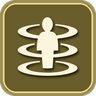
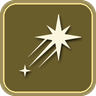
아군 포탑 사거리도 가까이 가면 표시(파랑), 상점 판매 가격·비율 표시와 아이템 마우스 올림 정보창, 되돌리기 버튼을 상점 왼쪽 아래로, 용 꼬리는 부드럽게·몸통은 확 꺾이지 않게, 점멸 아이콘 새로 그림, 인벤토리 드래그로 아이템 자리 바꾸기

Changed region(s): [[0.1562, 0.125, 0.875, 0.8125]]

diff --git a/game/client/scenes/game.py b/game/client/scenes/game.py
@@ -301,6 +301,11 @@ def draw_item(surf, iid, rect, font_size=14):
     ui.text(surf, it["name"][0], rect.center, font_size, (20, 20, 30), anchor="center", bold=True, shadow=False)
 
 
+def sell_text(item):
+    """판매 가격 글자 (롤 상점처럼 금액과 비율)."""
+    return f"판매 {round(item['cost'] * SELL_RATIO)} G ({round(SELL_RATIO * 100)}%)"
+
+
 def item_stat_text(item):
     parts = []
     for key, label, mul in STAT_LABELS:
@@ -394,6 +399,9 @@ class GameScene(Scene):
         self.shop_rects = []
         self.shop_buy_rect = None      # 상점 오른쪽 구매 버튼
         self.shop_undo_rect = None     # 상점 되돌리기 버튼
+        self.shop_tip = None           # 상점에서 마우스를 올린 아이템 정보 (마우스, 아이템 id, 가진 아이템)
+        self.inv_drag = None           # 인벤토리에서 끌고 있는 칸 번호
+        self.hud_slot_rects = []       # HUD 인벤토리 8칸 전부 (빈 칸 포함, 끌어다 놓을 자리)
         self.slam_follow = {}          # 이무기 id -> (내려찍기 대상 id, 끝나는 시각)
         self.shop_sel = None           # 상점에서 고른 아이템 (구매 버튼으로 살 것)
         self.shop_view = None          # 상점 오른쪽에 조합 트리를 보여 주는 아이템
@@ -1290,6 +1298,11 @@ class GameScene(Scene):
                 self.aiming = None
         elif e.type == pygame.MOUSEBUTTONDOWN:
             if e.button == 1:
+                if not self.aiming:                         # 인벤토리 아이템을 끌어서 자리 바꾸기
+                    hit = next((i for i, rect in self.hud_inv_rects if rect.collidepoint(e.pos)), None)
+                    if hit is not None:
+                        self.inv_drag = hit
+                        return
                 if self.aiming and self.aim_of(self.aiming) == "teleport" and MINIMAP.collidepoint(e.pos):
                     self.cast_slot(self.aiming)         # 미니맵을 눌러 먼 곳으로 시전
                     self.aiming = None
@@ -1330,6 +1343,12 @@ class GameScene(Scene):
             self.rmb_minimap = False
         elif e.type == pygame.MOUSEBUTTONUP and e.button == 1:
             self.minimap_drag = False
+            if self.inv_drag is not None:
+                src, self.inv_drag = self.inv_drag, None
+                dst = next((i for i, rect in self.hud_slot_rects if rect.collidepoint(e.pos)), None)
+                if dst is not None and dst != src:
+                    self.audio.play("ui_click")
+                    self.send_cmd(c="swap", a=src, b=dst)
         elif e.type == pygame.MOUSEMOTION and self.minimap_drag:
             self.minimap_camera(e.pos)
         elif e.type == pygame.MOUSEWHEEL:
@@ -1688,14 +1707,14 @@ class GameScene(Scene):
                 mesh = meshes["nexus"] if alive else meshes["nexus_dead"]
             r.draw(mesh, model_matrix(s["x"], 0, s["z"], rot_y=0.0), emissive=emis)
             if alive and s["k"] == "turret":
-                # 포탑 사거리: 내 챔피언이 가까이 있으면 표시
+                # 포탑 사거리: 내 챔피언이 가까이 있으면 표시 (적 포탑은 빨강, 아군 포탑은 파랑)
                 me = self.champs.get(self.my_id)
-                if me and s["tm"] != self.my_team and math.hypot(me.x - s["x"], me.z - s["z"]) < mapdata.TURRET_RANGE + 4:
+                if me and me.d and not me.d["dead"] and math.hypot(me.x - s["x"], me.z - s["z"]) < mapdata.TURRET_RANGE + 4:
                     # 서버는 "사거리 + 대상 반지름" 안이면 공격한다. 선의 안쪽 가장자리를 그 거리에 맞추고
                     # 두께는 바깥쪽으로 그려서, 선을 밟고 있어도 (선 위는 이미 사거리 밖이라) 공격받지 않게 한다.
                     inner = mapdata.TURRET_RANGE + ((self.my_data() or {}).get("stats", {}).get("radius", 0.55))
-                    r.draw_transparent(m.ring_thin, model_matrix(s["x"], 0.05, s["z"], scale=inner / (1.0 - RING_THIN)),
-                                       (1.0, 0.3, 0.25, 0.7))
+                    ring_col = (1.0, 0.3, 0.25, 0.7) if s["tm"] != self.my_team else (0.35, 0.65, 1.0, 0.55)
+                    r.draw_transparent(m.ring_thin, model_matrix(s["x"], 0.05, s["z"], scale=inner / (1.0 - RING_THIN)), ring_col)
             if alive and not st[3] and s["tm"] != self.my_team:
                 # 무적 구조물: 보호막
                 r.draw_transparent(m.orb, model_matrix(s["x"], 1.5, s["z"], scale=s["r"] + 0.7),
@@ -2348,6 +2367,8 @@ class GameScene(Scene):
                     bold=True)
         if self.shop_open:
             self.draw_shop(surf)
+            if self.shop_tip:
+                self.draw_item_tooltip(surf, *self.shop_tip)
         if self.show_score:
             self.draw_scoreboard(surf)
         if self.winner is not None:
@@ -2651,21 +2672,31 @@ class GameScene(Scene):
         ui.bar(surf, (392, 697, 356, 11), me["mp"] / max(1, me["mmp"]), (70, 120, 230))
         ui.text(surf, f"{me['mp']} / {me['mmp']}", (570, 702), 10, anchor="center", shadow=True)
 
-        # 아이템 (4칸 x 2줄, 신발도 한 칸을 차지한다)
+        # 아이템 (4칸 x 2줄, 신발도 한 칸을 차지한다). 끌어서 다른 칸에 놓으면 자리가 바뀐다
         self.hud_inv_rects = []
+        self.hud_slot_rects = []
+        if self.inv_drag is not None and self.inv_drag >= len(me["it"]):
+            self.inv_drag = None
         for i in range(INVENTORY_SLOTS):
             x = 764 + (i % INV_COLS) * 37
             y = 616 + (i // INV_COLS) * 38
             rect = pygame.Rect(x, y, 34, 34)
-            pygame.draw.rect(surf, (25, 30, 42), rect, border_radius=4)
+            self.hud_slot_rects.append((i, rect))
+            drop = self.inv_drag is not None and i != self.inv_drag and rect.collidepoint(mouse)
+            pygame.draw.rect(surf, (45, 60, 90) if drop else (25, 30, 42), rect, border_radius=4)
             if i < len(me["it"]):
                 it = gamedata.items()[me["it"][i]]
                 draw_item(surf, me["it"][i], rect.inflate(-2, -2))
                 self.hud_inv_rects.append((i, rect))
-                if rect.collidepoint(mouse):
-                    sell = round(it["cost"] * SELL_RATIO)
-                    tooltip = (it["name"], f"{item_stat_text(it)}\n판매 시 {sell} G ({int(SELL_RATIO * 100)}%)")
-            pygame.draw.rect(surf, ui.BORDER, rect, 1, border_radius=4)
+                if i == self.inv_drag:                  # 끌고 있는 아이템의 원래 칸은 어둡게
+                    dim = pygame.Surface(rect.size, pygame.SRCALPHA)
+                    dim.fill((0, 0, 0, 150))
+                    surf.blit(dim, rect.topleft)
+                if rect.collidepoint(mouse) and self.inv_drag is None:
+                    tooltip = (it["name"], f"{item_stat_text(it)}\n{sell_text(it)}")
+            pygame.draw.rect(surf, ui.HIGHLIGHT if drop else ui.BORDER, rect, 1, border_radius=4)
+        if self.inv_drag is not None:                   # 끌고 있는 아이템은 마우스를 따라온다
+            draw_item(surf, me["it"][self.inv_drag], pygame.Rect(mouse[0] - 16, mouse[1] - 16, 32, 32))
         self.gold_rect = ui.text(surf, f"{me['g']} G", (914, 706), 18, ui.GREEN_C if me.get("shop") else ui.GOLD,
                                  anchor="bottomleft", bold=True)
 
@@ -2976,6 +3007,7 @@ class GameScene(Scene):
         self.shop_rects = []
         self.shop_buy_rect = None
         self.shop_undo_rect = None
+        self.shop_tip = None
         mouse = ui.mouse_pos()
         its = gamedata.items()
         owned = list(me["it"]) if me else []
@@ -2999,6 +3031,14 @@ class GameScene(Scene):
             rect = pygame.Rect(bx.x + 8, y, bx.width - 16, 50)
             self.draw_shop_entry(surf, rect, iid, owned, gold, mouse, sel, row=True)
             y += 56
+        # 되돌리기 (롤처럼 상점 왼쪽 아래)
+        ub = pygame.Rect(bx.x + 8, bx.bottom - 54, bx.width - 16, 44)
+        uok = can and bool(me and me.get("ud"))
+        uhover = ub.collidepoint(mouse)
+        pygame.draw.rect(surf, ((70, 90, 130) if uhover else (52, 68, 102)) if uok else (40, 44, 56), ub, border_radius=6)
+        pygame.draw.rect(surf, ui.HIGHLIGHT if uok and uhover else ui.BORDER, ub, 1, border_radius=6)
+        ui.text(surf, "되돌리기", ub.center, 16, ui.TEXT if uok else ui.TEXT_DIM, anchor="center", bold=True)
+        self.shop_undo_rect = ub
 
         # 가운데: 아이템 목록 (아이콘 + 가격)
         mid = pygame.Rect(bx.right + 10, top, 408, p.bottom - top - 14)
@@ -3015,12 +3055,12 @@ class GameScene(Scene):
 
         # 오른쪽: 고른 아이템
         area = pygame.Rect(mid.right + 10, top, p.right - mid.right - 24, p.bottom - top - 14)
-        self.draw_shop_detail(surf, area, self.shop_view, sel, owned, gold, can, mouse, bool(me and me.get("ud")))
+        self.draw_shop_detail(surf, area, self.shop_view, sel, owned, gold, can, mouse)
 
-        # 마우스를 올린 아이템 이름
+        # 마우스를 올린 아이템 정보 (이름 · 가격 · 능력치 · 판매 가격)
         hov = next((iid for iid, r, _nav in self.shop_rects if r.collidepoint(mouse)), None)
-        if hov and hov != sel:
-            ui.text(surf, its[hov]["name"], (mouse[0] + 14, mouse[1] + 18), 14, ui.TEXT)
+        if hov:
+            self.shop_tip = (mouse, hov, owned)
 
     def draw_shop_entry(self, surf, rect, iid, owned, gold, mouse, sel, row=False):
         """상점의 아이템 칸 하나. row=True 면 아이콘 + 이름 + 가격 한 줄, 아니면 아이콘 + 가격."""
@@ -3054,7 +3094,7 @@ class GameScene(Scene):
             pygame.draw.circle(surf, (110, 220, 130), (ir.right - 4, ir.y + 4), 4)
         self.shop_rects.append((iid, rect, True))
 
-    def draw_shop_detail(self, surf, area, view, sel, owned, gold, can, mouse, undo=False):
+    def draw_shop_detail(self, surf, area, view, sel, owned, gold, can, mouse):
         """오른쪽 창: 위에 고른 아이템(sel)의 이름·가격·능력치, 가운데에 view 아이템의 조합 트리와 상위 아이템, 아래에 구매 버튼.
 
         트리 안의 재료를 누르면 트리(view)는 그대로 두고 그 재료만 골라진다 (구매 버튼으로 산다).
@@ -3068,6 +3108,7 @@ class GameScene(Scene):
         allowed, used, price, _why = gamedata.can_buy(owned, sel, INVENTORY_SLOTS)
         cost_txt = f"{price} G" + (f"  (총 {it['cost']} G)" if price != it["cost"] else "")
         ui.text(surf, cost_txt, (x + 62, y + 30), 14, ui.GOLD if gold >= price else (200, 130, 110))
+        ui.text(surf, sell_text(it), (area.right - 12, y + 4), 13, ui.TEXT_DIM, anchor="topright")
         y += 62
         for line in ui.wrap(item_stat_text(it), 13, area.width - 24):
             ui.text(surf, line, (x, y), 13, ui.TEXT)
@@ -3116,15 +3157,8 @@ class GameScene(Scene):
                 self.draw_tree_node(surf, r, u, False, mouse, sel, nav=True)
             y += ((len(ups) + 4) // 5) * 50
 
-        # 되돌리기 + 구매 버튼 (돈이 모자라도 살 수 있는 재료가 있으면 구매 버튼이 켜진다)
-        ub = pygame.Rect(area.x + 12, area.bottom - 58, 96, 46)
-        uok = can and undo
-        uhover = ub.collidepoint(mouse)
-        pygame.draw.rect(surf, ((70, 90, 130) if uhover else (52, 68, 102)) if uok else (40, 44, 56), ub, border_radius=6)
-        pygame.draw.rect(surf, ui.HIGHLIGHT if uok and uhover else ui.BORDER, ub, 1, border_radius=6)
-        ui.text(surf, "되돌리기", ub.center, 15, ui.TEXT if uok else ui.TEXT_DIM, anchor="center", bold=True)
-        self.shop_undo_rect = ub
-        btn = pygame.Rect(ub.right + 8, area.bottom - 58, area.right - 12 - (ub.right + 8), 46)
+        # 구매 버튼 (돈이 모자라도 살 수 있는 재료가 있으면 켜진다)
+        btn = pygame.Rect(area.x + 12, area.bottom - 58, area.width - 24, 46)
         ok = can and bool(gamedata.purchase_plan(owned, sel, gold, INVENTORY_SLOTS))
         hover = btn.collidepoint(mouse)
         col = ((60, 150, 90) if hover else (44, 124, 72)) if ok else (48, 52, 64)
@@ -3132,6 +3166,31 @@ class GameScene(Scene):
         pygame.draw.rect(surf, ui.HIGHLIGHT if ok and hover else ui.BORDER, btn, 1, border_radius=6)
         ui.text(surf, f"구매   {price} G", btn.center, 18, ui.TEXT if ok else ui.TEXT_DIM, anchor="center", bold=True)
         self.shop_buy_rect = btn
+
+    def draw_item_tooltip(self, surf, mouse, iid, owned):
+        """상점 아이템 위에 마우스를 올렸을 때: 이름 · 가격(재료로 깎인 값) · 능력치 · 재료 · 판매 가격."""
+        its = gamedata.items()
+        it = its[iid]
+        _ok, _used, price, _why = gamedata.can_buy(owned, iid, INVENTORY_SLOTS)
+        lines = [(it["name"], 15, ui.GOLD, True),
+                 (f"{price} G" + (f"  (총 {it['cost']} G)" if price != it["cost"] else ""), 13, ui.GOLD, False)]
+        for ln in ui.wrap(item_stat_text(it), 13, 260):
+            lines.append((ln, 13, ui.TEXT, False))
+        if it.get("from"):
+            lines.append((" + ".join(its[c]["name"] for c in it["from"]), 12, ui.TEXT_DIM, False))
+        lines.append((sell_text(it), 12, ui.TEXT_DIM, False))
+        w = max(ui.font(sz, b).size(t)[0] for t, sz, _c, b in lines) + 24
+        h = sum(sz + 7 for _t, sz, _c, _b in lines) + 14
+        r = pygame.Rect(mouse[0] + 18, mouse[1] + 18, w, h)
+        if r.right > WIDTH - 4:
+            r.right = mouse[0] - 10
+        if r.bottom > HEIGHT - 4:
+            r.bottom = mouse[1] - 10
+        ui.panel(surf, r, (12, 18, 30, 248), ui.BORDER, radius=5)
+        y = r.y + 8
+        for t, sz, col, b in lines:
+            ui.text(surf, t, (r.x + 12, y), sz, col, bold=b)
+            y += sz + 7
 
     def draw_tree_node(self, surf, r, iid, have, mouse, sel, nav=False):
         """조합 트리 / 상위 아이템 칸. 누르면 그 아이템을 고르고(nav 면 그 아이템의 트리로 이동), 우클릭하면 바로 산다."""

diff --git a/game/client/rigs/dragon.py b/game/client/rigs/dragon.py
@@ -56,10 +56,12 @@ IH = _at(0.434)                 # 날개막 뒤쪽이 붙는 마디
 IFL = _at(0.229)                # 앞다리
 IHL = _at(0.37)                 # 뒷다리
 KC = (IFL + IHL) // 2           # 챔피언 위치(가슴 한가운데)에 놓이는 마디
-TAIL_TURN0 = 12.0               # 뒷다리 바로 뒤 꼬리 마디가 지나온 길의 방향으로 돌아서는 빠르기 (1/초)
-TAIL_TURN1 = 2.2                # ... 꼬리 끝은 이만큼만 (낮을수록 빙빙 돌 때 꼬리가 묵직하게 늦게 돈다)
-TAIL_BEND = math.radians(1.6)   # 꼬리가 마디 하나에서 꺾일 수 있는 최대 각도 (작을수록 빳빳해 작게 말리지 않는다)
+TAIL_TURN0 = 14.0               # 가슴 바로 뒤 마디가 지나온 길의 방향으로 돌아서는 빠르기 (1/초)
+TAIL_TURN1 = 4.0                # ... 꼬리 끝은 이만큼 (낮을수록 빙빙 돌 때 꼬리가 늦게 돈다)
+BODY_BEND = math.radians(2.2)   # 가슴~뒷다리 몸통이 마디 하나에서 꺾일 수 있는 최대 각도 (작을수록 확 꺾이지 않는다)
+TAIL_BEND = math.radians(5.0)   # 꼬리는 이만큼까지 (몸통보다 부드럽게 휜다)
 NR = IHL + int(round((NR_FULL - 1 - IHL) * TAIL_K)) + 1       # 뒷다리 뒤의 꼬리만 TAIL_K 배로 줄인다
+_BENDS = np.where(np.arange(NR - 1) < IHL, BODY_BEND, TAIL_BEND)       # 마디 사이(k -> k+1)마다 꺾일 수 있는 최대 각도
 BODY_LEN = (NR - 1) * DS
 CAP = int(math.ceil((BODY_LEN + 30) / TS))
 
@@ -579,8 +581,8 @@ class DragonAnim:
         H = np.concatenate([[0.0], np.cumsum(step[KC:])])                    # 가슴 뒤쪽: 지나온 길을 따라간다
         X[KC:] = np.interp(H, cum, pts[:, 0])
         Z[KC:] = np.interp(H, cum, pts[:, 1])
-        # 뒷다리 뒤 꼬리: 밧줄처럼 끌려가며 끝으로 갈수록 늦게 따라온다 (빙빙 돌아도 길을 따라 꼬이지 않게)
-        X, Z, self.tail_ang = heavy_chain(self.tail_ang, X, Z, IHL + 1, dt, TAIL_TURN0, TAIL_TURN1, TAIL_BEND)
+        # 가슴 뒤 몸통·꼬리: 끝으로 갈수록 늦게 돌아서고, 몸통은 빳빳해서 확 꺾이지 않으며 꼬리는 그보다 부드럽게 휜다
+        X, Z, self.tail_ang = heavy_chain(self.tail_ang, X, Z, KC + 1, dt, TAIL_TURN0, TAIL_TURN1, _BENDS)
         # 머리를 앞으로 뻗기 (물어뜯기): 머리 쪽 마디일수록 많이 끌려 나온다
         ex = c['ext']
         if abs(ex) > 1e-3:

diff --git a/tools/build_icons.py b/tools/build_icons.py
@@ -42,7 +42,7 @@ SKILLS = {
 
 # 소환사 주문 이름 -> (아이콘, 배경 색)
 SPELLS = {
-    "flash": ("lorc/teleport", (235, 200, 70)),
+    "flash": ("@flash_blink", (235, 200, 70)),
     "mark": ("lorc/frozen-orb", (110, 190, 245)),
     "heal": ("sbed/health-increase", (90, 210, 120)),
     "ghost": ("lorc/ghost", (150, 170, 230)),
@@ -142,7 +142,43 @@ def serpent_dive(src, size, color):
     return im.resize((size, size), Image.LANCZOS)
 
 
-COMPOSED = {"@spider_leap": spider_leap, "@serpent_dive": serpent_dive}
+def flash_blink(src, size, color):
+    """점멸: 왼쪽 아래에서 오른쪽 위로 순식간에 옮겨 가는 그림 (번쩍이는 별 + 뒤에 남는 빛줄기, 전부 직접 그림)."""
+    import math
+    from PIL import Image, ImageDraw
+    k = 3
+    S = size * k
+    im = Image.new("RGBA", (S, S), (0, 0, 0, 0))
+    d = ImageDraw.Draw(im)
+    c = (*color, 255)
+
+    def star(cx, cy, R, r, rot, fill):
+        pts = []
+        for i in range(8):
+            a = rot + i * math.pi / 4
+            rr = R if i % 2 == 0 else r
+            pts.append((cx + math.cos(a) * rr, cy + math.sin(a) * rr))
+        d.polygon(pts, fill=fill)
+
+    # 빛줄기: 떠난 자리(왼쪽 아래)에서 도착한 별 쪽으로 갈수록 굵어지는 세 줄
+    ex, ey = 0.66 * S, 0.34 * S
+    ang = math.atan2(ey - 0.86 * S, ex - 0.14 * S)
+    ux, uy = math.cos(ang), math.sin(ang)
+    nx, ny = -uy, ux
+    for off, l0, l1, w in ((0.0, 0.10, 0.50, 0.050), (0.11, 0.20, 0.44, 0.030), (-0.11, 0.20, 0.44, 0.030)):
+        sx, sy = 0.14 * S + nx * off * S, 0.86 * S + ny * off * S
+        ax, ay = sx + ux * l0 * S, sy + uy * l0 * S
+        bx, by = sx + ux * (l0 + l1) * S, sy + uy * (l0 + l1) * S
+        hw = w * S / 2
+        d.polygon([(ax, ay), (bx + nx * hw, by + ny * hw), (bx - nx * hw, by - ny * hw)], fill=c)
+    # 떠난 자리의 작은 반짝임, 도착한 자리의 큰 별 (뒤에 45도 돌린 작은 별을 겹친다)
+    star(0.16 * S, 0.84 * S, 0.09 * S, 0.025 * S, 0.0, c)
+    star(ex, ey, 0.25 * S, 0.06 * S, math.pi / 4, c)
+    star(ex, ey, 0.36 * S, 0.075 * S, 0.0, c)
+    return im.resize((size, size), Image.LANCZOS)
+
+
+COMPOSED = {"@spider_leap": spider_leap, "@serpent_dive": serpent_dive, "@flash_blink": flash_blink}
 
 
 def tile(src, rel, base, gold=False):

diff --git a/game/client/rigs/spider.py b/game/client/rigs/spider.py
@@ -189,8 +189,8 @@ def heavy_chain(state, tx, tz, start, dt, rate_head, rate_tail, max_bend=None):
     """긴 몸(이무기 몸통·용 꼬리)을 묵직하게 끌고 다닌다.
     start 앞의 마디는 목표 자리(머리가 지나온 길)에 그대로 두고, 그 뒤는 마디마다 방향(앞 마디 -> 이 마디)을 들고 있다가
     목표 모양의 방향 쪽으로 rate_head(start 마디) ~ rate_tail(꼬리 끝) 의 빠르기(1/초)로만 돌린다. 위치는 앞 마디에서
-    그 방향으로 목표 모양의 간격만큼 이어 붙인다. max_bend(rad) 가 있으면 앞 마디와 꺾이는 각도도 그 이하로 묶어
-    몸이 빳빳해진다. 그래서 빙빙 돌아도 꼬리가 길을 그대로 따라 작게 꼬이지 않고, 늦게 묵직하게 돈다.
+    그 방향으로 목표 모양의 간격만큼 이어 붙인다. max_bend(rad, 숫자 하나 또는 마디 사이마다의 배열)가 있으면
+    앞 마디와 꺾이는 각도도 그 이하로 묶어 몸이 빳빳해진다. 그래서 빙빙 돌아도 꼬리가 길을 그대로 따라 작게 꼬이지 않고, 늦게 묵직하게 돈다.
     state: 지난 프레임의 마디 방향 배열 (없으면 None). 반환: (x, z, 새 방향 배열)."""
     n = len(tx)
     start = max(1, min(n, start))
@@ -215,12 +215,14 @@ def heavy_chain(state, tx, tz, start, dt, rate_head, rate_tail, max_bend=None):
         ang[s0:] = a + 0.25 * (dl + dr)
     if max_bend is not None and s0 > 0:
         al = ang.tolist()
+        mbl = np.broadcast_to(np.asarray(max_bend, dtype=float), (n - 1,)).tolist()
         for j in range(s0, n - 1):
             rel = (al[j] - al[j - 1] + math.pi) % (2 * math.pi) - math.pi
-            if rel > max_bend:
-                al[j] = al[j - 1] + max_bend
-            elif rel < -max_bend:
-                al[j] = al[j - 1] - max_bend
+            mb = mbl[j]
+            if rel > mb:
+                al[j] = al[j - 1] + mb
+            elif rel < -mb:
+                al[j] = al[j - 1] - mb
         ang = np.array(al)
     x, z = tx.copy(), tz.copy()
     cx, cz = np.cos(ang[s0:]) * seg[s0:], np.sin(ang[s0:]) * seg[s0:]

diff --git a/game/server/sim.py b/game/server/sim.py
@@ -630,6 +630,8 @@ class Simulation:
                 self.sell(c, int(msg["slot"]))
             elif cmd == "undo":
                 self.undo(c)
+            elif cmd == "swap":
+                self.swap_items(c, int(msg["a"]), int(msg["b"]))
             elif c.dead:
                 return
             elif cmd == "move":
@@ -711,6 +713,16 @@ class Simulation:
         c.gold += refund
         c.undo.append({"items": before, "gold": -refund})
         c.recompute_stats(self.time)
+
+    def swap_items(self, c, a, b):
+        """인벤토리 자리 바꾸기 (언제든 가능). b 가 빈 칸이면 a 의 아이템을 맨 뒤 칸으로 옮긴다."""
+        n = len(c.items)
+        if not (0 <= a < n) or not (0 <= b < INVENTORY_SLOTS) or a == b:
+            return
+        if b < n:
+            c.items[a], c.items[b] = c.items[b], c.items[a]
+        else:
+            c.items.append(c.items.pop(a))
 
     def undo(self, c):
         """상점 되돌리기: 마지막 구매·판매를 없던 일로 (아이템과 골드를 그 전으로)."""

diff --git a/assets/ui/CREDITS.md b/assets/ui/CREDITS.md
@@ -58,7 +58,7 @@
 
 | 주문 | 아이콘 (작가) |
 |---|---|
-| 점멸 (`flash`) | [teleport](https://game-icons.net/1x1/lorc/teleport.html) — Lorc |
+| 점멸 (`flash`) | 직접 그림 (`tools/build_icons.py` 의 `flash_blink`: 번쩍이는 별 + 빛줄기) |
 | 표식 (`mark`) | [frozen-orb](https://game-icons.net/1x1/lorc/frozen-orb.html) — Lorc |
 | 회복 (`heal`) | [health-increase](https://game-icons.net/1x1/sbed/health-increase.html) — sbed |
 | 유체화 (`ghost`) | [ghost](https://game-icons.net/1x1/lorc/ghost.html) — Lorc |
